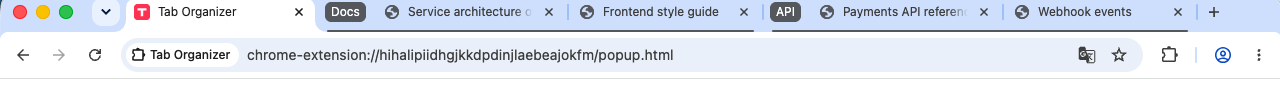
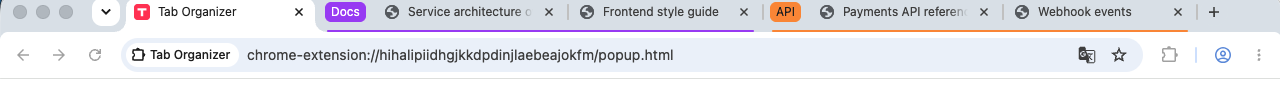
feat: Give each new group its own color

diff --git a/tests/synchronization-service.test.ts b/tests/synchronization-service.test.ts
@@ -9,6 +9,7 @@ import type {
 import { PresetStore } from '../src/background/preset-store';
 import type { LocalStorageArea, StoredValues } from '../src/background/settings-service';
 import {
+  preferredGroupColor,
   SYNCHRONIZATION_CHUNK_SIZE,
   SYNCHRONIZATION_MAX_CONCURRENT_CHUNKS,
   SynchronizationService,
@@ -147,6 +148,57 @@ describe('SynchronizationService', () => {
     const afterApply = createHarness();
     Object.assign(afterApply.session.values, session.values);
     expect(await afterApply.service.latestProposal()).toBeNull();
+  });
+
+  it('gives each new group its own color and keeps it across runs', async () => {
+    const local = new MemoryStorage();
+    const session = new MemoryStorage();
+    const windowTabs: BrowserTab[] = [
+      { tabId: 31, windowId: 10, title: 'Docs one', url: 'https://docs.test/1', groupId: -1, incognito: false },
+      { tabId: 32, windowId: 10, title: 'Api one', url: 'https://api.test/1', groupId: -1, incognito: false },
+      { tabId: 33, windowId: 10, title: 'News one', url: 'https://news.test/1', groupId: -1, incognito: false },
+    ];
+    const names: Record<number, string> = { 31: 'Docs', 32: 'API', 33: 'Reading' };
+    const classifier: Classifier = {
+      classify: async (request) => request.tabs.map((tab) => ({
+        tabRef: tab.ref,
+        kind: 'new_group' as const,
+        targetRef: null,
+        suggestedName: names[parseInt(tab.ref.replace('tab-', ''), 10)] ?? 'Other',
+        suggestedDescription: 'Related',
+        confidence: 0.9,
+        reason: 'Same topic',
+      })),
+    };
+    const platform: SynchronizationPlatform = {
+      listTabs: async () => windowTabs,
+      // One group already occupies the color 'Docs' would prefer.
+      listGroups: async () => [{
+        groupId: 700, windowId: 10, ref: 'group-700', title: 'Existing',
+        color: preferredGroupColor('Docs'),
+      }],
+      getTab: async (tabId) => windowTabs.find((tab) => tab.tabId === tabId) ?? null,
+      moveToExistingGroup: async () => undefined,
+      moveToNewGroup: async () => 1,
+    };
+    const build = () => new SynchronizationService(
+      classifier, new PresetStore(local, () => 'preset'), new TabLockStore(session, () => 1),
+      new HistoryStore(local, () => 'history', () => 1), platform, () => 'en', () => 'colors',
+    );
+
+    const proposal = await build().review('current');
+    const colors = proposal.changes.map((change) => change.target.color);
+
+    // Distinct from each other, and none of them grey, which is what an untouched group looks like.
+    expect(new Set(colors).size).toBe(colors.length);
+    expect(colors).not.toContain('grey');
+    // The color already on screen is left to the group that has it.
+    expect(colors).not.toContain(preferredGroupColor('Docs'));
+
+    // The same titles reviewed again produce the same colors, so a group does not change color
+    // every time the user runs a review.
+    const second = await build().review('current');
+    expect(second.changes.map((change) => change.target.color)).toEqual(colors);
   });
 
   it('joins a group that already carries the name instead of creating a second one', async () => {
@@ -1163,8 +1215,8 @@ describe('SynchronizationService', () => {
     expect(await history.list()).toMatchObject([{
       status: 'partial',
       tabs: [
-        { tabId: 4, expectedGroup: { title: 'Suggested', color: 'grey' } },
-        { tabId: 5, expectedGroup: { title: 'Suggested', color: 'grey' } },
+        { tabId: 4, expectedGroup: { title: 'Suggested', color: preferredGroupColor('Suggested') } },
+        { tabId: 5, expectedGroup: { title: 'Suggested', color: preferredGroupColor('Suggested') } },
       ],
     }]);
   });
@@ -1220,7 +1272,7 @@ describe('SynchronizationService', () => {
 
     expect(await history.list()).toMatchObject([{
       status: 'completed',
-      tabs: [{ expectedGroup: { groupId: 77, title: 'Suggested', color: 'grey' } }],
+      tabs: [{ expectedGroup: { groupId: 77, title: 'Suggested', color: preferredGroupColor('Suggested') } }],
     }]);
   });
 
@@ -1239,7 +1291,7 @@ describe('SynchronizationService', () => {
     expect(platform.actions).toEqual(['new:4:10:Suggested']);
     expect(await history.list()).toMatchObject([{
       status: 'completed',
-      tabs: [{ expectedGroup: { title: 'Suggested', color: 'grey' } }],
+      tabs: [{ expectedGroup: { title: 'Suggested', color: preferredGroupColor('Suggested') } }],
     }]);
   });
 

diff --git a/src/background/synchronization-service.ts b/src/background/synchronization-service.ts
@@ -249,6 +249,7 @@ export class SynchronizationService {
 
       const changes: SynchronizationChange[] = [];
       const canonicalTitles = new Map<string, string>();
+      const assignedColors = new Map<string, GroupColor>();
       const approvedTitles = approvedGroupTitles === undefined
         ? undefined
         : new Set(approvedGroupTitles.map((title) => title.trim().toLowerCase()));
@@ -260,7 +261,9 @@ export class SynchronizationService {
           unchangedCount += 1;
           continue;
         }
-        const target = resolveTarget(decision, groups, presets, canonicalTitles, approvedTitles);
+        const target = resolveTarget(
+          decision, groups, presets, canonicalTitles, assignedColors, approvedTitles,
+        );
         if (target === null) throw new Error('synchronization_invalid_target');
         if (target === 'unchanged') {
           unchangedCount += 1;
@@ -670,6 +673,56 @@ export function normalizeGroupTitle(title: string): string {
   return title.trim().toLowerCase();
 }
 
+// Grey is what an unstyled Chrome group looks like, so a group this extension named should not be
+// indistinguishable from one the user made by hand.
+const NEW_GROUP_COLORS: GroupColor[] = [
+  'blue', 'green', 'purple', 'orange', 'pink', 'cyan', 'red', 'yellow',
+];
+
+/** The color a title maps to, before collisions within the window are taken into account. */
+export function preferredGroupColor(title: string): GroupColor {
+  let hash = 0;
+  for (const character of normalizeGroupTitle(title)) {
+    hash = (hash * 31 + character.charCodeAt(0)) % 1_000_003;
+  }
+  return NEW_GROUP_COLORS[hash % NEW_GROUP_COLORS.length] ?? 'blue';
+}
+
+/**
+ * Picks a color for a group this run is about to create.
+ *
+ * The starting point comes from the title, so a project keeps its color between runs rather than
+ * changing every time the tabs are reviewed. From there it steps forward until it finds a color no
+ * other group in the same window is already using, because two same-colored groups side by side are
+ * harder to tell apart than a group whose color moved.
+ */
+function assignGroupColor(
+  title: string,
+  groups: BrowserGroup[],
+  assigned: Map<string, GroupColor>,
+): GroupColor {
+  const normalized = normalizeGroupTitle(title);
+  const already = assigned.get(normalized);
+  if (already !== undefined) return already;
+
+  const taken = new Set<GroupColor>([
+    ...groups.map((group) => group.color),
+    ...assigned.values(),
+  ]);
+  const start = NEW_GROUP_COLORS.indexOf(preferredGroupColor(normalized));
+  for (let step = 0; step < NEW_GROUP_COLORS.length; step += 1) {
+    const candidate = NEW_GROUP_COLORS[(start + step) % NEW_GROUP_COLORS.length] ?? 'blue';
+    if (!taken.has(candidate)) {
+      assigned.set(normalized, candidate);
+      return candidate;
+    }
+  }
+  // Every color is in use, so the title decides and a repeat is accepted.
+  const fallback = preferredGroupColor(normalized);
+  assigned.set(normalized, fallback);
+  return fallback;
+}
+
 /**
  * Finds a live group by title alone.
  *
@@ -687,6 +740,7 @@ function resolveTarget(
   groups: BrowserGroup[],
   presets: Awaited<ReturnType<PresetStore['list']>>,
   canonicalTitles: Map<string, string>,
+  assignedColors: Map<string, GroupColor>,
   approvedTitles: Set<string> | undefined,
 ): SynchronizationTarget | 'unchanged' | null {
   if (decision.kind === 'existing_group') {
@@ -740,7 +794,8 @@ function resolveTarget(
     if (canonical === undefined) canonicalTitles.set(normalized, title);
     return {
       kind: 'new_group', ref: null, groupId: null, title: canonical ?? title,
-      color: 'grey', description: decision.suggestedDescription,
+      color: assignGroupColor(canonical ?? title, groups, assignedColors),
+      description: decision.suggestedDescription,
     };
   }
   return null;
